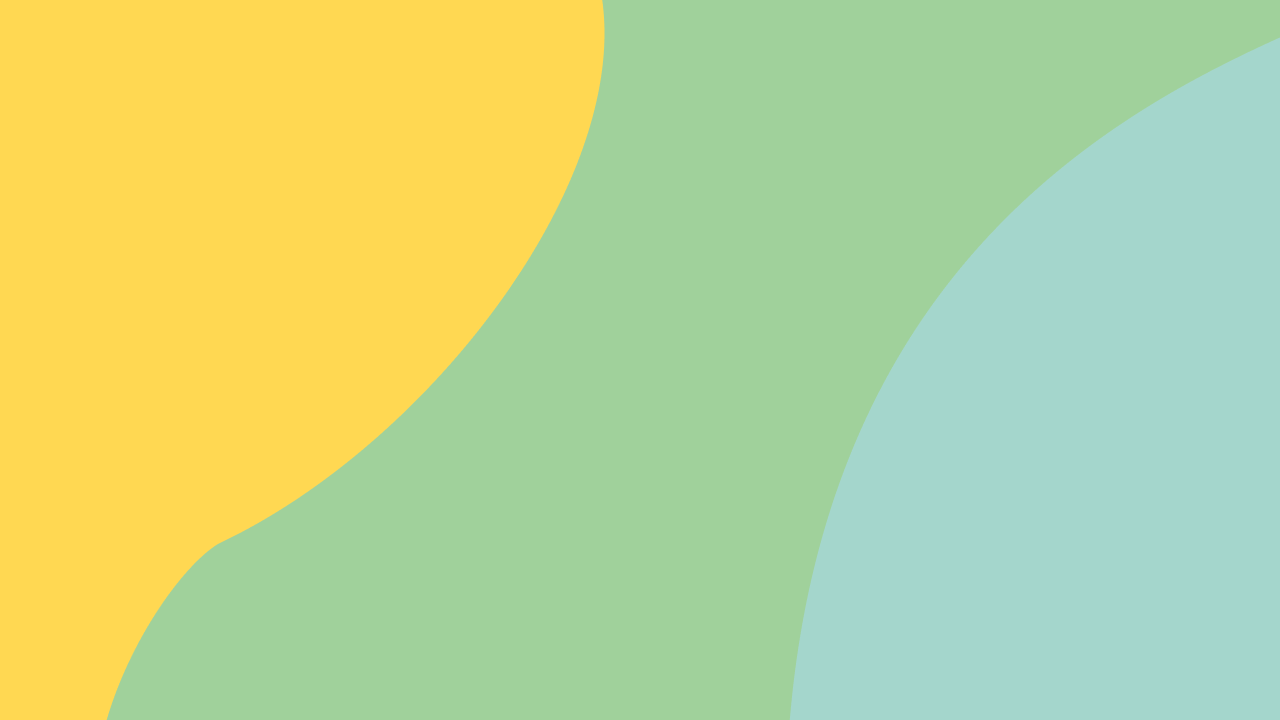
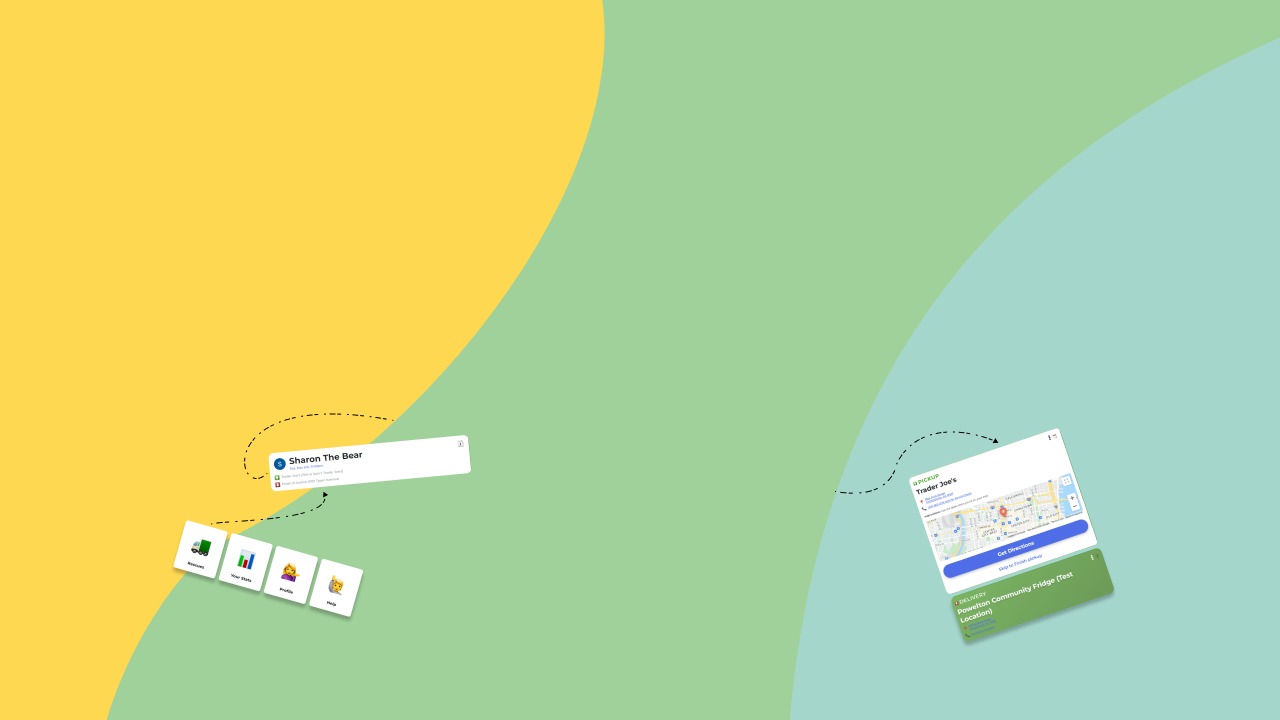
Updated hero background with static decorative element

Changed region(s): [[0.6875, 0.5806, 0.875, 0.9167], [0.1875, 0.5806, 0.375, 0.7028], [0.125, 0.7028, 0.2812, 0.8556]]

diff --git a/src/components/Landing/ProductDemo/ProductDemo.scss b/src/components/Landing/ProductDemo/ProductDemo.scss
@@ -2,7 +2,7 @@
   @include LandingPage;
   min-height: 92vh;
   padding-top: 32px;
-  padding-bottom: 128px;
+  padding-bottom: 120px;
   box-sizing: border-box;
   @include mobile {
     padding-top: 64px;
@@ -38,8 +38,8 @@
       .ProductDemo-screen {
         width: 70%;
         position: relative;
-        padding-bottom: 250px;
-        padding-right: 550px;
+        padding-bottom: 220px;
+        padding-right: 450px;
         @include mobile {
           width: 100%;
           padding: 0;

diff --git a/src/components/Landing/Hero/Hero.scss b/src/components/Landing/Hero/Hero.scss
@@ -1,7 +1,8 @@
 #Hero {
   @include LandingPage;
   min-height: 92vh;
-  padding-top: 96px;
+  padding-top: 0px;
+  padding-bottom: 140px;
   box-sizing: border-box;
 
   @include mobile {
@@ -16,6 +17,12 @@
     z-index: -1;
     top: 0;
     left: 0;
+  }
+
+  #Hero-element {
+    position: absolute;
+    top: 55%;
+    left: 13%;
   }
 
   #Hero-subheader {
